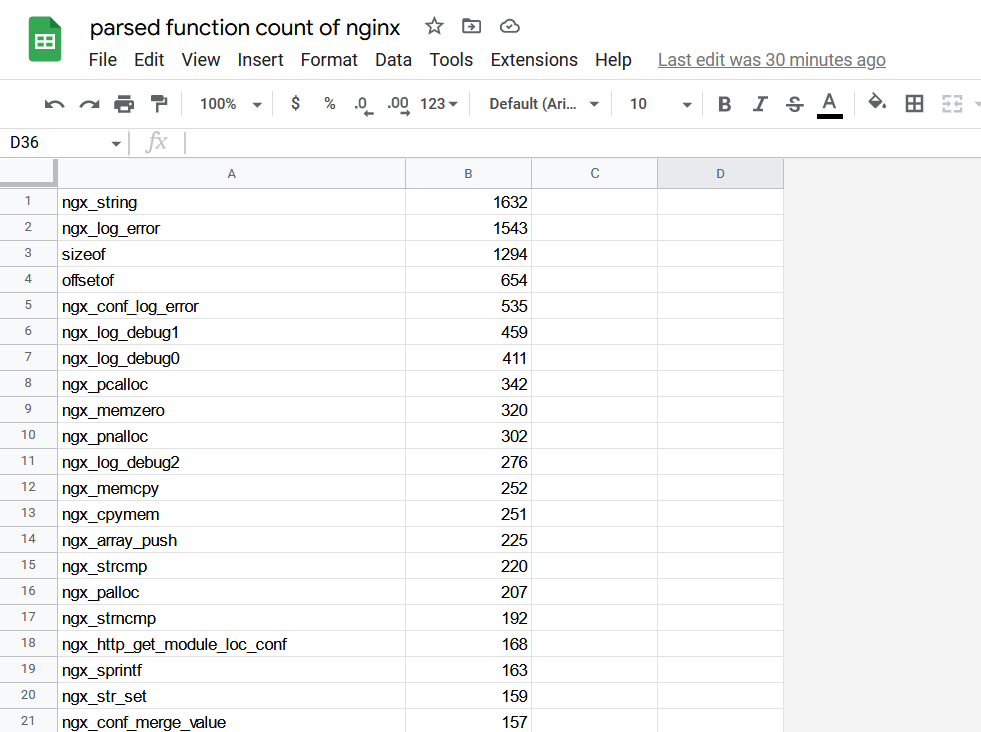
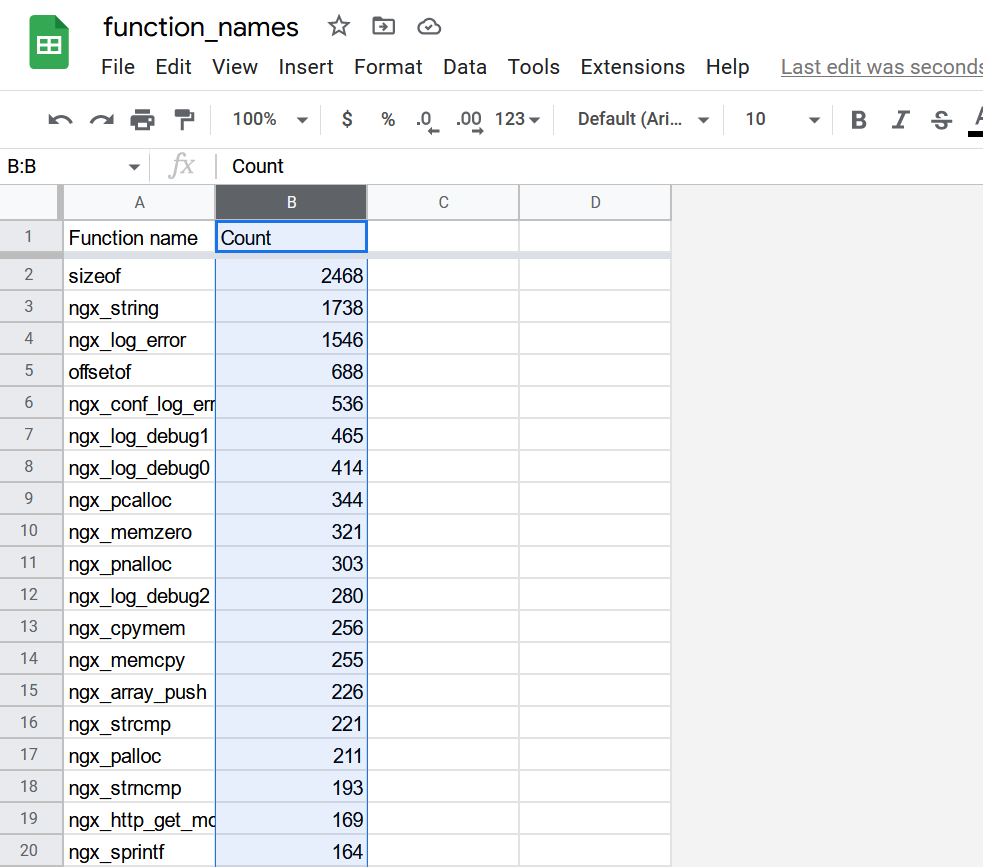
readme and .gitignore changes

diff --git a/readme.md b/readme.md
@@ -9,7 +9,7 @@ Currently implemented
 <!---image --->
 ![image](screenshot.png)
 
-run against nginx [Link to google sheets](https://docs.google.com/spreadsheets/d/1diopAW_2KzM7L-IUzC0j4iph3aUpERU_IODNkk5xfR0/edit?usp=sharing)
+run against nginx [Link to google sheets](https://docs.google.com/spreadsheets/d/1crQyoxLpZhjzFrsiogF74hqWBomWeefxM4VVichnnK4/edit?usp=sharing)
 
 TODO:
 - Could be used to determine that function names use the given standard
